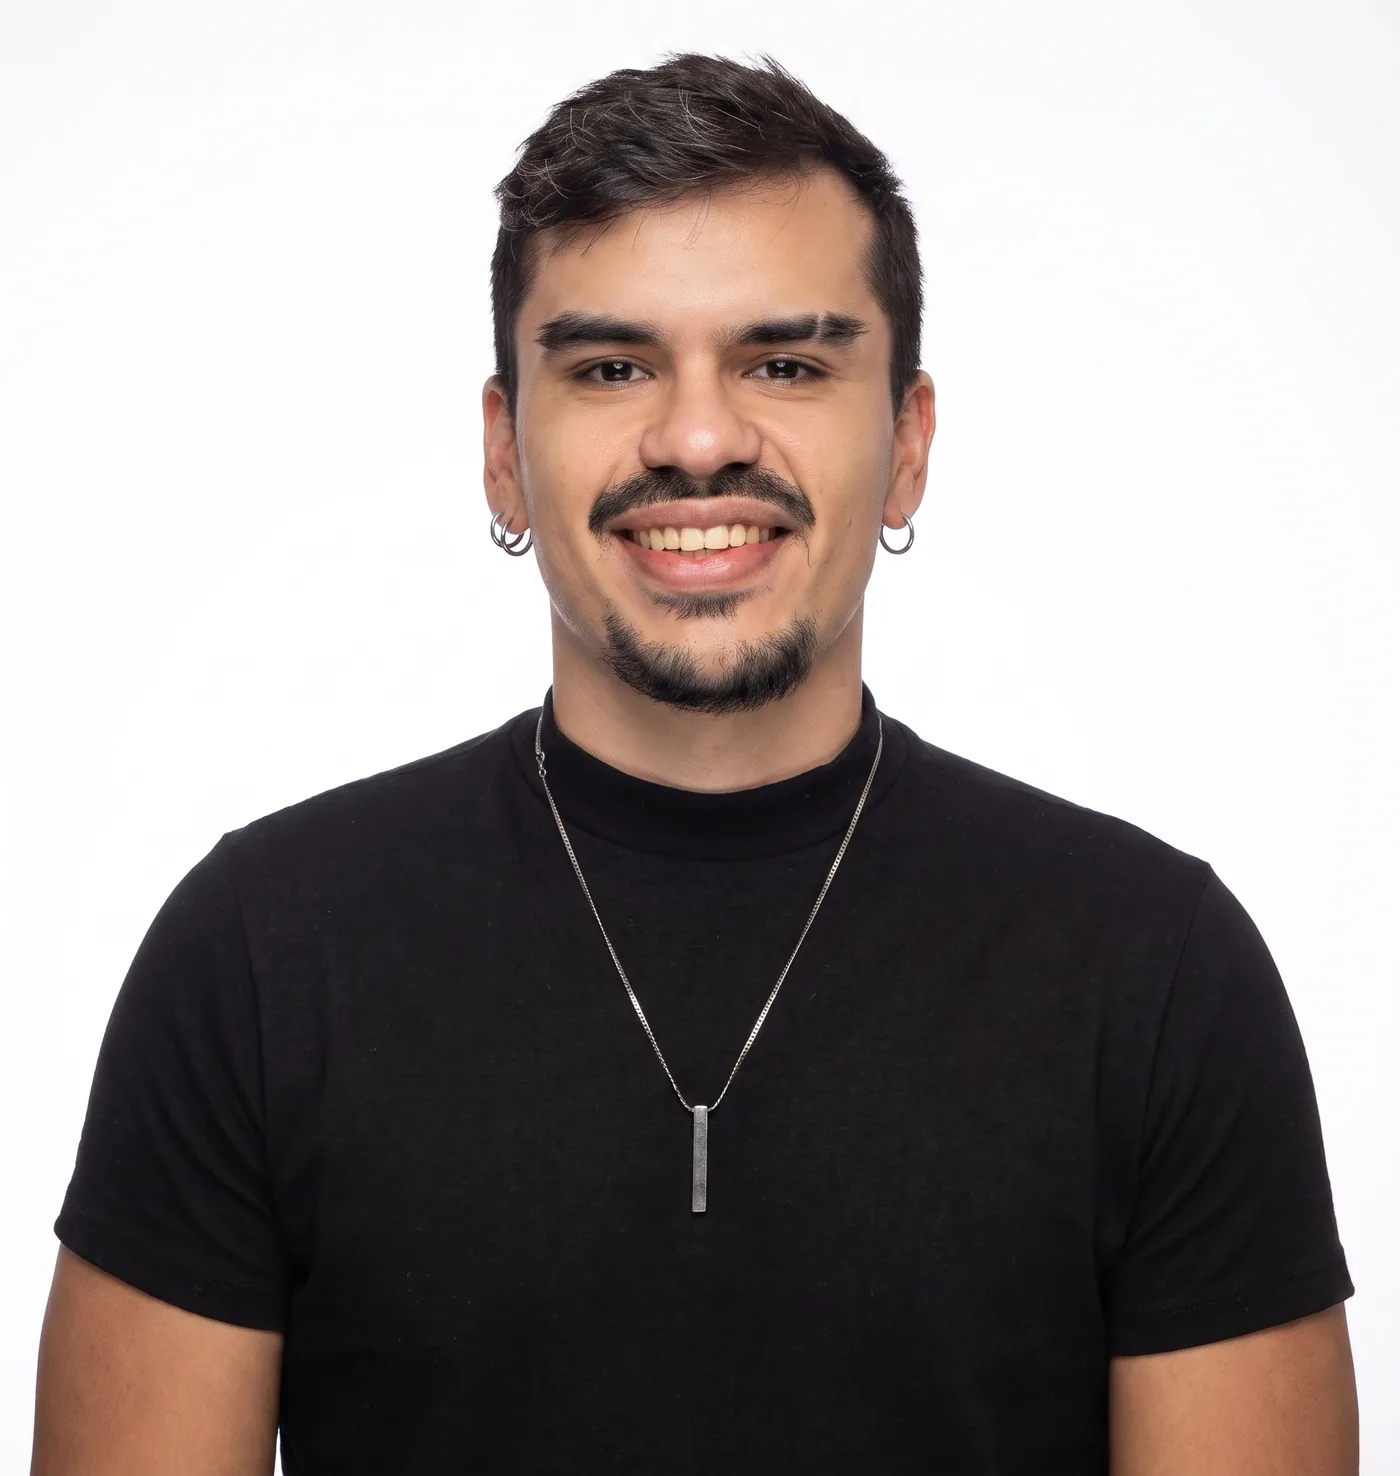
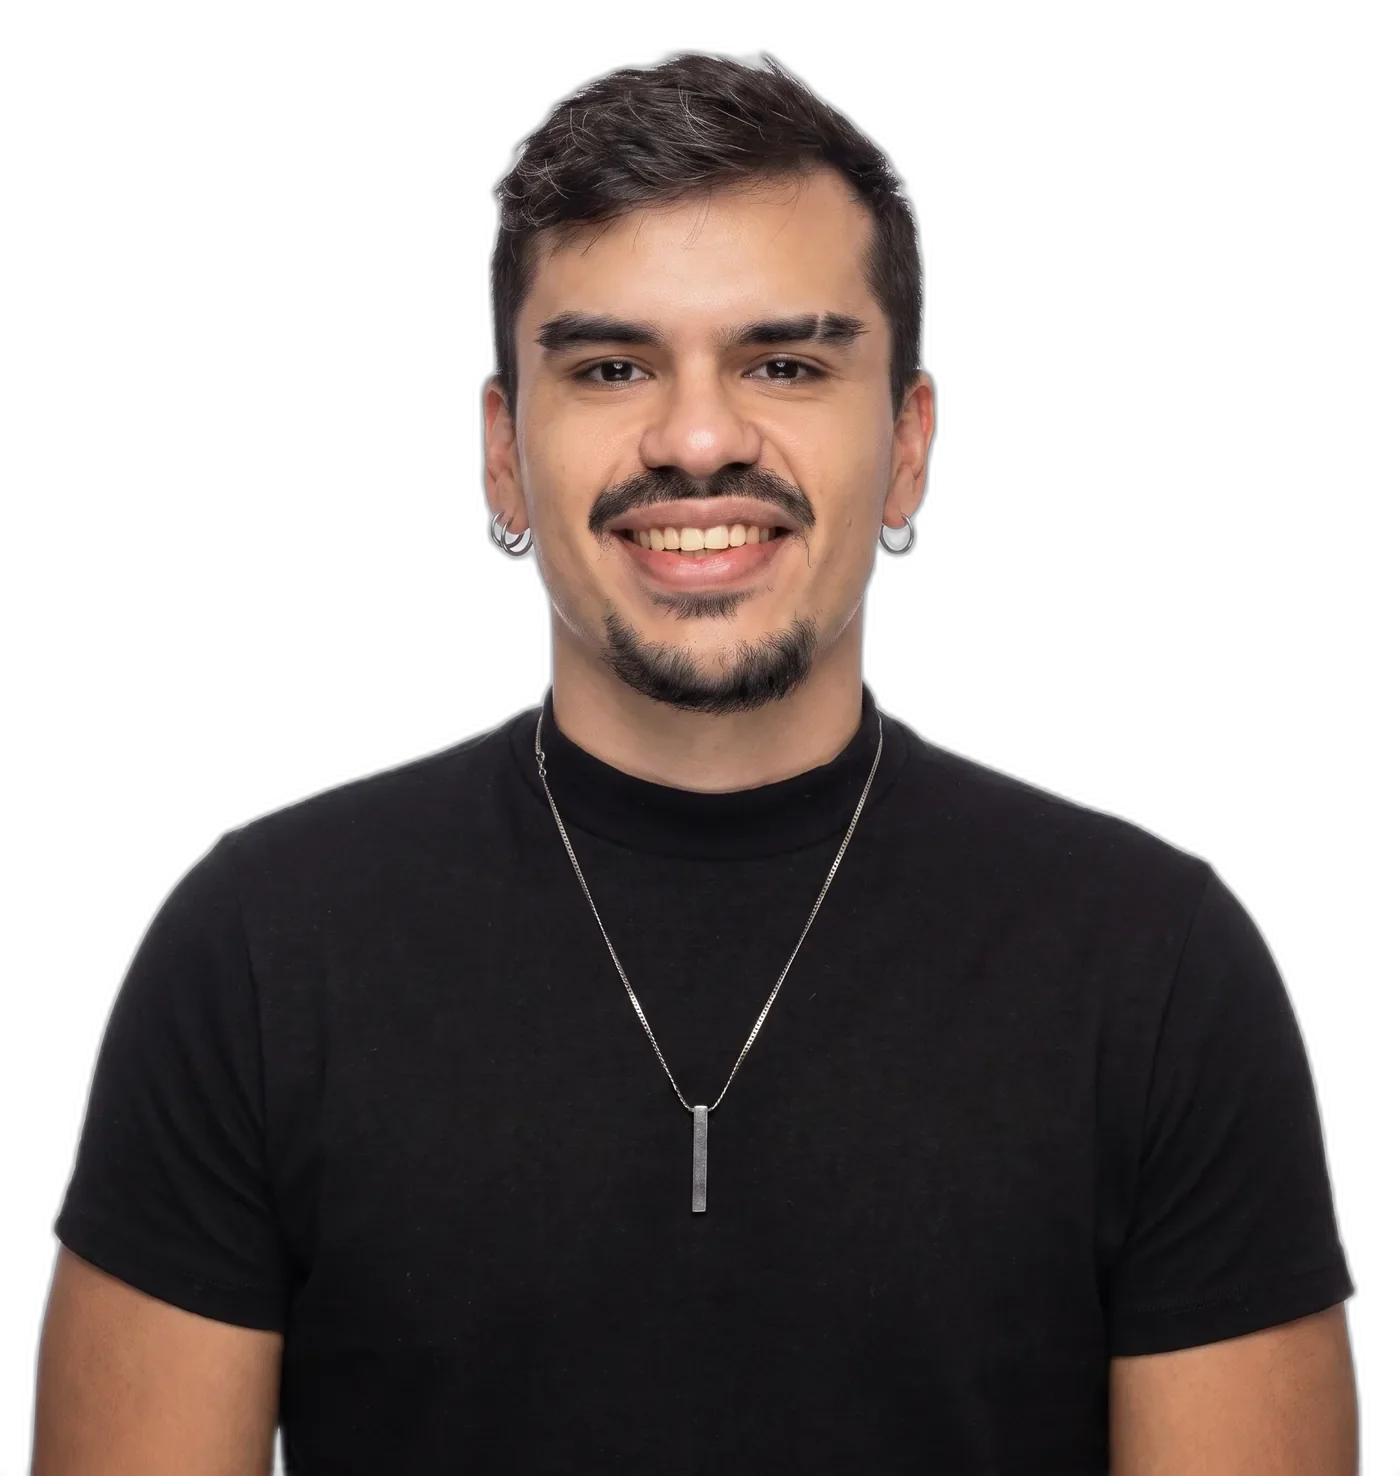
fix: corrige corte lateral no Hero desktop e remove fundo da foto
- Hero.tsx: container do retrato desktop usava height fixo (90vh)
  que nao batia com a proporcao da nova foto, forcando corte lateral
  pesado com object-fit:cover. Trocado para aspectRatio derivado da
  propria imagem (1400/1476) e ancorado no bottom, eliminando o corte.
- upscalemedia-transformed.webp: fundo branco (que deixava um
  contorno retangular visivel) removido de verdade via rembg,
  agora com transparencia real (canal alpha), mesma proporcao.

diff --git a/src/components/Hero.tsx b/src/components/Hero.tsx
@@ -96,7 +96,7 @@ export default function Hero() {
       style={{ position: 'relative', minHeight: 'calc(100vh - 68px)', display: 'flex', flexDirection: 'column', justifyContent: 'flex-end', overflow: 'hidden', paddingTop: 40 }}
     >
       {/* Portrait desktop */}
-      <div style={{ position: 'absolute', zIndex: 1, left: '50%', top: 0, transform: 'translateX(-50%)', height: '90vh', width: 'clamp(320px, 42vw, 680px)', maskImage: MASK_DESKTOP, WebkitMaskImage: MASK_DESKTOP }}>
+      <div style={{ position: 'absolute', zIndex: 1, left: '50%', bottom: 0, transform: 'translateX(-50%)', aspectRatio: '1400 / 1476', maxHeight: '90vh', width: 'clamp(320px, 42vw, 680px)', maskImage: MASK_DESKTOP, WebkitMaskImage: MASK_DESKTOP }}>
         <motion.div
           initial={{ y: 80, opacity: 0 }}
           animate={{ y: 0, opacity: 1 }}
